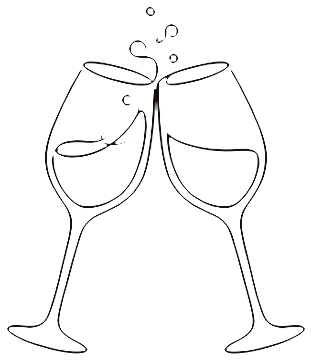
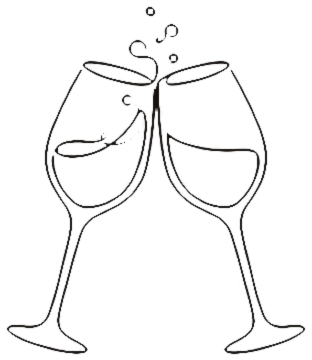
The Day: cocktail drawing for refreshment hour, darker dancers and glasses

diff --git a/the-day.html b/the-day.html
@@ -9,7 +9,7 @@
 <link rel="preconnect" href="https://fonts.googleapis.com" />
 <link rel="preconnect" href="https://fonts.gstatic.com" crossorigin />
 <link href="https://fonts.googleapis.com/css2?family=Cormorant+Garamond:ital,wght@0,400;0,500;0,600;1,400&family=Jost:wght@300;400;500;600;700&family=Pinyon+Script&family=Playfair+Display:ital,wght@0,500;0,600;1,500&family=Bodoni+Moda:ital,wght@0,500;0,600;1,500&family=Cinzel:wght@500;600&family=Marcellus&family=Prata&display=swap" rel="stylesheet" />
-<link rel="stylesheet" href="style.css?v=33" />
+<link rel="stylesheet" href="style.css?v=34" />
 </head>
 <body>
 
@@ -40,19 +40,19 @@
     </div>
     <div class="timeline">
       <div class="tl-item"><div class="tl-text"><div class="tl-time">11:45 am</div><div class="tl-label">Guests Arrive</div><div class="tl-note">Welcome, and a &lsquo;getting comfy&rsquo; half hour</div></div></div>
-      <div class="tl-item tl-item--art"><div class="tl-art tl-art--l"><img src="Photos/itinerary/seated.png?v=4" alt="" loading="lazy"></div><div class="tl-text"><div class="tl-time">12:15 pm</div><div class="tl-label">Please Be Seated</div><div class="tl-note">Guests are seated while the registrar speaks with the couple</div></div></div>
-      <div class="tl-item tl-item--art"><div class="tl-text"><div class="tl-time">12:30 pm</div><div class="tl-label">The Ceremony</div><div class="tl-note">The main event &ndash; it&rsquo;s time to make it official!</div></div><div class="tl-art tl-art--r"><img src="Photos/itinerary/ceremony.png?v=4" alt="" loading="lazy"></div></div>
-      <div class="tl-item tl-item--art"><div class="tl-art tl-art--l"><img src="Photos/itinerary/camera.png?v=4" alt="" loading="lazy"></div><div class="tl-text"><div class="tl-time">1:00 pm</div><div class="tl-label">Drinks Reception &amp; Photographs</div><div class="tl-note"></div></div></div>
-      <div class="tl-item tl-item--art"><div class="tl-text"><div class="tl-time">1:15 pm</div><div class="tl-label">Canap&eacute;s</div><div class="tl-note">Served during the drinks reception</div></div><div class="tl-art tl-art--r"><img src="Photos/itinerary/canapes.png?v=4" alt="" loading="lazy"></div></div>
-      <div class="tl-item tl-item--art"><div class="tl-art tl-art--l"><img src="Photos/itinerary/tower.png?v=4" alt="" loading="lazy"></div><div class="tl-text"><div class="tl-time">2:30 pm</div><div class="tl-label">Into the Ballroom</div><div class="tl-note">Guests are moved through to the Ballroom</div></div></div>
-      <div class="tl-item tl-item--art"><div class="tl-text"><div class="tl-time">2:45 pm</div><div class="tl-label">The Happy Couple</div><div class="tl-note">The Master of Ceremonies announces Jessica &amp; Matthew</div></div><div class="tl-art tl-art--r"><img src="Photos/itinerary/couple.png?v=4" alt="" loading="lazy"></div></div>
-      <div class="tl-item tl-item--art"><div class="tl-art tl-art--l"><img src="Photos/itinerary/toast.png?v=4" alt="" loading="lazy"></div><div class="tl-text"><div class="tl-time">3:00 pm</div><div class="tl-label">Speeches &amp; Toast</div><div class="tl-note"></div></div></div>
-      <div class="tl-item tl-item--art"><div class="tl-text"><div class="tl-time">3:30 pm</div><div class="tl-label">Wedding Breakfast</div><div class="tl-note">The wedding breakfast is served</div></div><div class="tl-art tl-art--r"><img src="Photos/itinerary/breakfast.png?v=4" alt="" loading="lazy"></div></div>
-      <div class="tl-item"><div class="tl-text"><div class="tl-time">5:30 pm</div><div class="tl-label">Refreshment Hour</div><div class="tl-note">An hour of refreshment time before we meet back for the evening</div></div></div>
+      <div class="tl-item tl-item--art"><div class="tl-art tl-art--l"><img src="Photos/itinerary/seated.png?v=5" alt="" loading="lazy"></div><div class="tl-text"><div class="tl-time">12:15 pm</div><div class="tl-label">Please Be Seated</div><div class="tl-note">Guests are seated while the registrar speaks with the couple</div></div></div>
+      <div class="tl-item tl-item--art"><div class="tl-text"><div class="tl-time">12:30 pm</div><div class="tl-label">The Ceremony</div><div class="tl-note">The main event &ndash; it&rsquo;s time to make it official!</div></div><div class="tl-art tl-art--r"><img src="Photos/itinerary/ceremony.png?v=5" alt="" loading="lazy"></div></div>
+      <div class="tl-item tl-item--art"><div class="tl-art tl-art--l"><img src="Photos/itinerary/camera.png?v=5" alt="" loading="lazy"></div><div class="tl-text"><div class="tl-time">1:00 pm</div><div class="tl-label">Drinks Reception &amp; Photographs</div><div class="tl-note"></div></div></div>
+      <div class="tl-item tl-item--art"><div class="tl-text"><div class="tl-time">1:15 pm</div><div class="tl-label">Canap&eacute;s</div><div class="tl-note">Served during the drinks reception</div></div><div class="tl-art tl-art--r"><img src="Photos/itinerary/canapes.png?v=5" alt="" loading="lazy"></div></div>
+      <div class="tl-item tl-item--art"><div class="tl-art tl-art--l"><img src="Photos/itinerary/tower.png?v=5" alt="" loading="lazy"></div><div class="tl-text"><div class="tl-time">2:30 pm</div><div class="tl-label">Into the Ballroom</div><div class="tl-note">Guests are moved through to the Ballroom</div></div></div>
+      <div class="tl-item tl-item--art"><div class="tl-text"><div class="tl-time">2:45 pm</div><div class="tl-label">The Happy Couple</div><div class="tl-note">The Master of Ceremonies announces Jessica &amp; Matthew</div></div><div class="tl-art tl-art--r"><img src="Photos/itinerary/couple.png?v=5" alt="" loading="lazy"></div></div>
+      <div class="tl-item tl-item--art"><div class="tl-art tl-art--l"><img src="Photos/itinerary/toast.png?v=5" alt="" loading="lazy"></div><div class="tl-text"><div class="tl-time">3:00 pm</div><div class="tl-label">Speeches &amp; Toast</div><div class="tl-note"></div></div></div>
+      <div class="tl-item tl-item--art"><div class="tl-text"><div class="tl-time">3:30 pm</div><div class="tl-label">Wedding Breakfast</div><div class="tl-note">The wedding breakfast is served</div></div><div class="tl-art tl-art--r"><img src="Photos/itinerary/breakfast.png?v=5" alt="" loading="lazy"></div></div>
+      <div class="tl-item tl-item--art"><div class="tl-art tl-art--l"><img src="Photos/itinerary/cocktail.png?v=5" alt="" loading="lazy"></div><div class="tl-text"><div class="tl-time">5:30 pm</div><div class="tl-label">Refreshment Hour</div><div class="tl-note">An hour of refreshment time before we meet back for the evening</div></div></div>
       <div class="tl-item"><div class="tl-text"><div class="tl-time">6:30 pm</div><div class="tl-label">Evening Guests Arrive</div><div class="tl-note">Evening guests arrive and the cake is cut</div></div></div>
-      <div class="tl-item tl-item--art"><div class="tl-text"><div class="tl-time">7:00 pm</div><div class="tl-label">First Dance</div><div class="tl-note"></div></div><div class="tl-art tl-art--r"><img src="Photos/itinerary/dance.png?v=4" alt="" loading="lazy"></div></div>
+      <div class="tl-item tl-item--art"><div class="tl-text"><div class="tl-time">7:00 pm</div><div class="tl-label">First Dance</div><div class="tl-note"></div></div><div class="tl-art tl-art--r"><img src="Photos/itinerary/dance.png?v=5" alt="" loading="lazy"></div></div>
       <div class="tl-item"><div class="tl-text"><div class="tl-time">8:30 pm</div><div class="tl-label">Evening Food</div><div class="tl-note">Evening food is served</div></div></div>
-      <div class="tl-item tl-item--art"><div class="tl-art tl-art--l"><img src="Photos/itinerary/farewell.png?v=4" alt="" loading="lazy"></div><div class="tl-text"><div class="tl-time">12:00 am</div><div class="tl-label">Farewell</div><div class="tl-note">The bar closes, the music finishes and guests depart</div></div></div>
+      <div class="tl-item tl-item--art"><div class="tl-art tl-art--l"><img src="Photos/itinerary/farewell.png?v=5" alt="" loading="lazy"></div><div class="tl-text"><div class="tl-time">12:00 am</div><div class="tl-label">Farewell</div><div class="tl-note">The bar closes, the music finishes and guests depart</div></div></div>
     </div>
   </section>
 

diff --git a/index.html b/index.html
@@ -19,7 +19,7 @@
 <link rel="preconnect" href="https://fonts.googleapis.com" />
 <link rel="preconnect" href="https://fonts.gstatic.com" crossorigin />
 <link href="https://fonts.googleapis.com/css2?family=Cormorant+Garamond:ital,wght@0,400;0,500;0,600;1,400&family=Jost:wght@300;400;500;600;700&family=Pinyon+Script&family=Playfair+Display:ital,wght@0,500;0,600;1,500&family=Bodoni+Moda:ital,wght@0,500;0,600;1,500&family=Cinzel:wght@500;600&family=Marcellus&family=Prata&display=swap" rel="stylesheet" />
-<link rel="stylesheet" href="style.css?v=33" />
+<link rel="stylesheet" href="style.css?v=34" />
 </head>
 <body>
 

diff --git a/faq.html b/faq.html
@@ -9,7 +9,7 @@
 <link rel="preconnect" href="https://fonts.googleapis.com" />
 <link rel="preconnect" href="https://fonts.gstatic.com" crossorigin />
 <link href="https://fonts.googleapis.com/css2?family=Cormorant+Garamond:ital,wght@0,400;0,500;0,600;1,400&family=Jost:wght@300;400;500;600;700&family=Pinyon+Script&family=Playfair+Display:ital,wght@0,500;0,600;1,500&family=Bodoni+Moda:ital,wght@0,500;0,600;1,500&family=Cinzel:wght@500;600&family=Marcellus&family=Prata&display=swap" rel="stylesheet" />
-<link rel="stylesheet" href="style.css?v=33" />
+<link rel="stylesheet" href="style.css?v=34" />
 </head>
 <body>
 

diff --git a/registry.html b/registry.html
@@ -9,7 +9,7 @@
 <link rel="preconnect" href="https://fonts.googleapis.com" />
 <link rel="preconnect" href="https://fonts.gstatic.com" crossorigin />
 <link href="https://fonts.googleapis.com/css2?family=Cormorant+Garamond:ital,wght@0,400;0,500;0,600;1,400&family=Jost:wght@300;400;500;600;700&family=Pinyon+Script&family=Playfair+Display:ital,wght@0,500;0,600;1,500&family=Bodoni+Moda:ital,wght@0,500;0,600;1,500&family=Cinzel:wght@500;600&family=Marcellus&family=Prata&display=swap" rel="stylesheet" />
-<link rel="stylesheet" href="style.css?v=33" />
+<link rel="stylesheet" href="style.css?v=34" />
 </head>
 <body>
 

diff --git a/rsvp.html b/rsvp.html
@@ -9,7 +9,7 @@
 <link rel="preconnect" href="https://fonts.googleapis.com" />
 <link rel="preconnect" href="https://fonts.gstatic.com" crossorigin />
 <link href="https://fonts.googleapis.com/css2?family=Cormorant+Garamond:ital,wght@0,400;0,500;0,600;1,400&family=Jost:wght@300;400;500;600;700&family=Pinyon+Script&family=Playfair+Display:ital,wght@0,500;0,600;1,500&family=Bodoni+Moda:ital,wght@0,500;0,600;1,500&family=Cinzel:wght@500;600&family=Marcellus&family=Prata&display=swap" rel="stylesheet" />
-<link rel="stylesheet" href="style.css?v=33" />
+<link rel="stylesheet" href="style.css?v=34" />
 </head>
 <body>
 

diff --git a/things-to-do.html b/things-to-do.html
@@ -9,7 +9,7 @@
 <link rel="preconnect" href="https://fonts.googleapis.com" />
 <link rel="preconnect" href="https://fonts.gstatic.com" crossorigin />
 <link href="https://fonts.googleapis.com/css2?family=Cormorant+Garamond:ital,wght@0,400;0,500;0,600;1,400&family=Jost:wght@300;400;500;600;700&family=Pinyon+Script&family=Playfair+Display:ital,wght@0,500;0,600;1,500&family=Bodoni+Moda:ital,wght@0,500;0,600;1,500&family=Cinzel:wght@500;600&family=Marcellus&family=Prata&display=swap" rel="stylesheet" />
-<link rel="stylesheet" href="style.css?v=33" />
+<link rel="stylesheet" href="style.css?v=34" />
 </head>
 <body>
 

diff --git a/travel.html b/travel.html
@@ -9,7 +9,7 @@
 <link rel="preconnect" href="https://fonts.googleapis.com" />
 <link rel="preconnect" href="https://fonts.gstatic.com" crossorigin />
 <link href="https://fonts.googleapis.com/css2?family=Cormorant+Garamond:ital,wght@0,400;0,500;0,600;1,400&family=Jost:wght@300;400;500;600;700&family=Pinyon+Script&family=Playfair+Display:ital,wght@0,500;0,600;1,500&family=Bodoni+Moda:ital,wght@0,500;0,600;1,500&family=Cinzel:wght@500;600&family=Marcellus&family=Prata&display=swap" rel="stylesheet" />
-<link rel="stylesheet" href="style.css?v=33" />
+<link rel="stylesheet" href="style.css?v=34" />
 </head>
 <body>
 

diff --git a/wedding-party.html b/wedding-party.html
@@ -9,7 +9,7 @@
 <link rel="preconnect" href="https://fonts.googleapis.com" />
 <link rel="preconnect" href="https://fonts.gstatic.com" crossorigin />
 <link href="https://fonts.googleapis.com/css2?family=Cormorant+Garamond:ital,wght@0,400;0,500;0,600;1,400&family=Jost:wght@300;400;500;600;700&family=Pinyon+Script&family=Playfair+Display:ital,wght@0,500;0,600;1,500&family=Bodoni+Moda:ital,wght@0,500;0,600;1,500&family=Cinzel:wght@500;600&family=Marcellus&family=Prata&display=swap" rel="stylesheet" />
-<link rel="stylesheet" href="style.css?v=33" />
+<link rel="stylesheet" href="style.css?v=34" />
 </head>
 <body>
 
